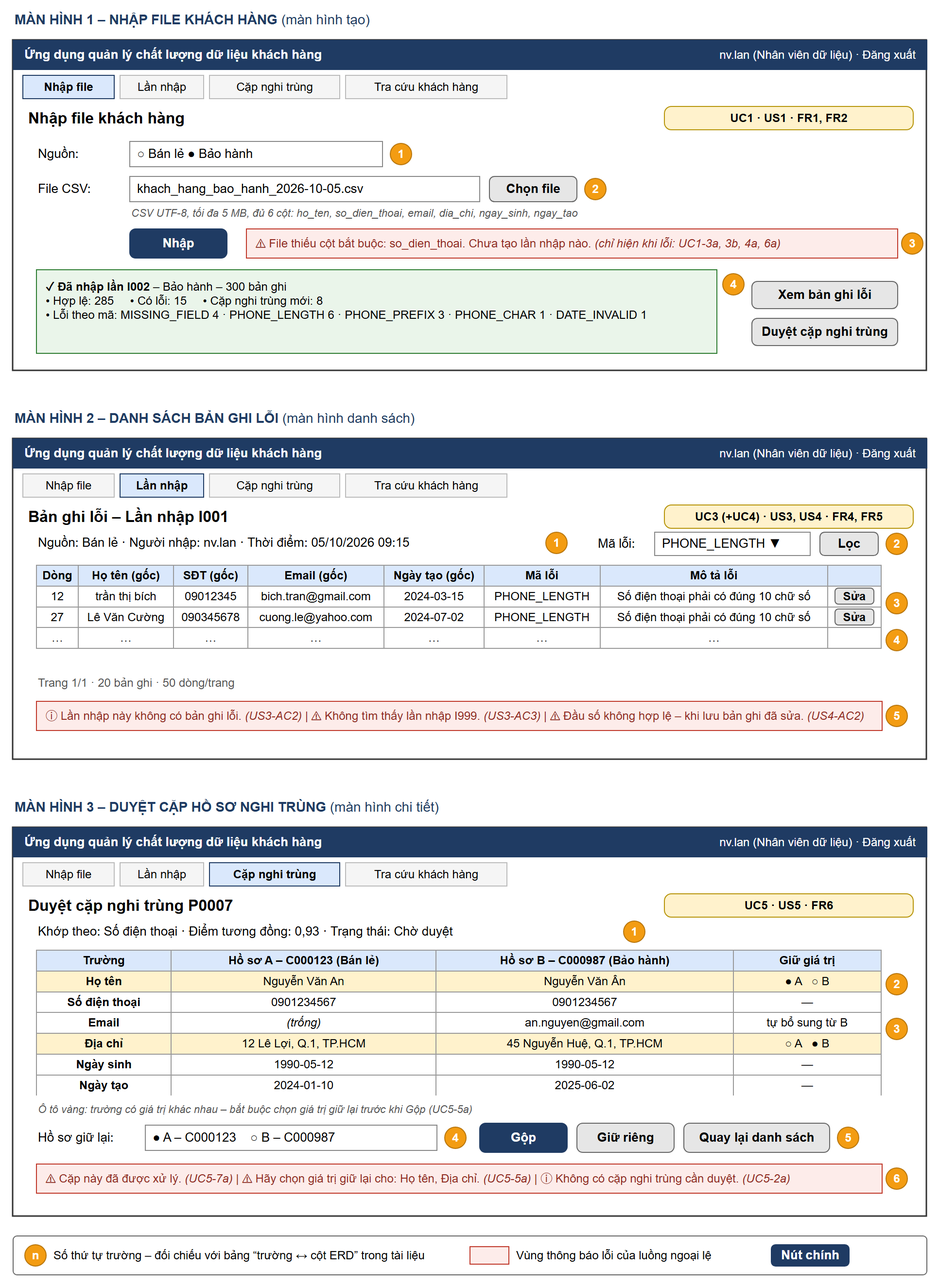
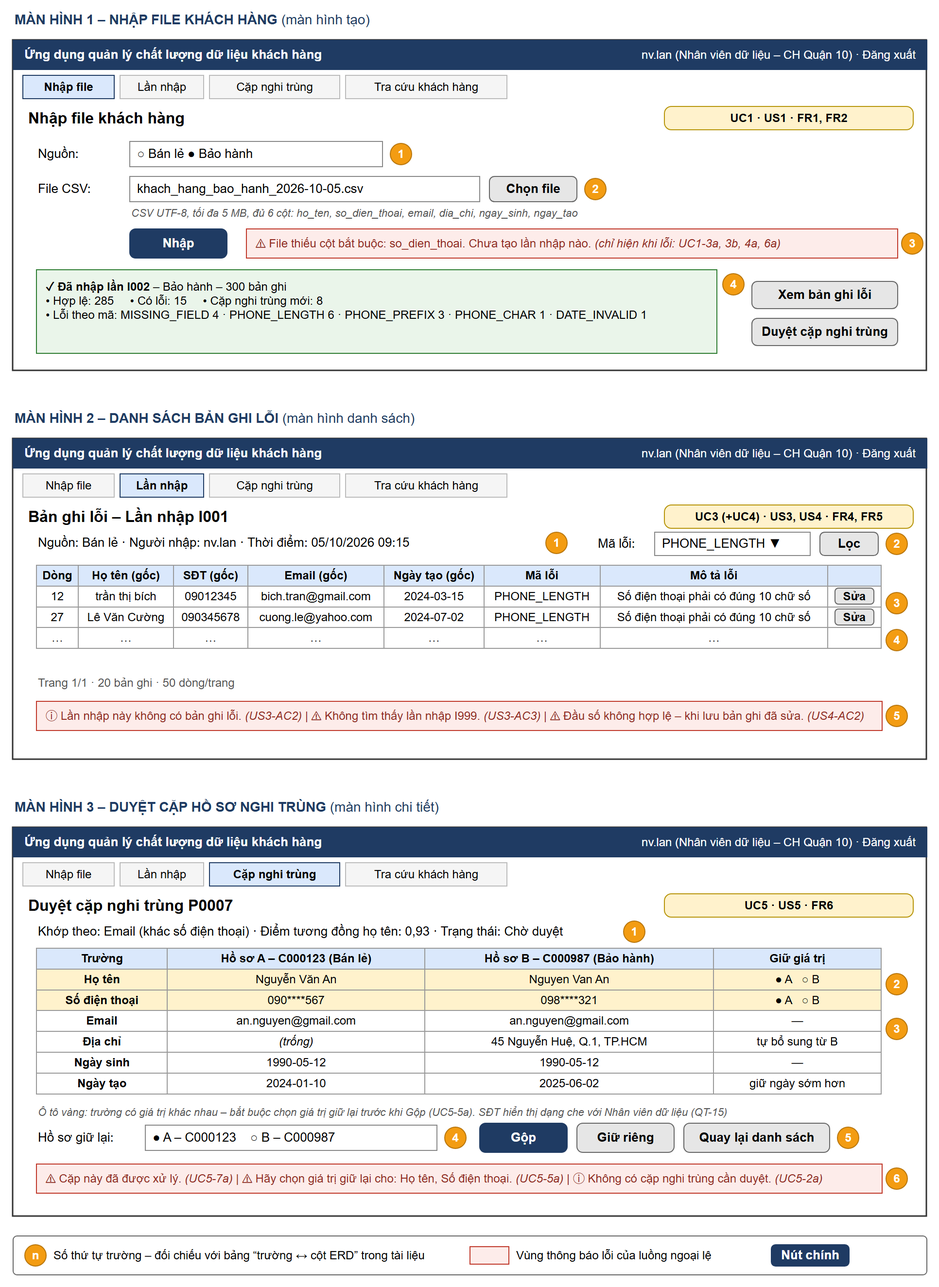
docs: doi chieu mo hinh du lieu voi case study, user story dang bang va cap nhat so do

diff --git a/docs/srs.md b/docs/srs.md
@@ -7,14 +7,14 @@
 **Thiết kế:** [`docs/architecture.drawio`](architecture.drawio) · [`docs/erd.drawio`](erd.drawio) · [`docs/schema.sql`](schema.sql) · [`docs/wireframe.drawio`](wireframe.drawio)  
 **Bản nộp BT1 (PDF):** `BT1_2374802010384_LeTanPhong.pdf` – nội dung trùng với tài liệu này
 
-> Cấu trúc rút gọn theo tinh thần ISO/IEC/IEEE 29148 (không tuân thủ đầy đủ chuẩn).
+> Cấu trúc rút gọn theo tinh thần ISO/IEC/IEEE 29148 (không tuân thủ đầy đủ chuẩn). Thuật ngữ, thực thể dữ liệu và quy tắc nghiệp vụ lấy từ tài liệu Case study Smart CRM – Mekong Mobile (Bảng 3.1, mục 7 – L7, mục 8, Bảng 9.1).
 
 ---
 
 ## 1. Giới thiệu và phạm vi
 
 ### 1.1. Bối cảnh
-Dữ liệu khách hàng của Mekong Mobile hiện nằm rải rác ở hệ thống bán lẻ và hệ thống bảo hành, một phần còn ghi chép thủ công trên Excel. Hồ sơ trùng lặp, thiếu trường bắt buộc và số điện thoại sai định dạng xuất hiện thường xuyên; nhân viên phải rà soát bằng tay trên Excel, doanh nghiệp chưa có “góc nhìn khách hàng duy nhất” (Single Customer View) và chưa đo được tỷ lệ lỗi dữ liệu.
+Dữ liệu khách hàng của Mekong Mobile nằm rải rác ở ba nơi: file Excel của từng cửa hàng, tin nhắn Zalo của nhân viên bán hàng và sổ tay của trung tâm bảo hành. Một khách hàng có thể tồn tại ba lần với ba số điện thoại khác nhau; ước tính 18–22% hồ sơ bị trùng (vấn đề V1). Số điện thoại có nhiều dạng (0901234567, 84901234567, 0901 234 567), có ô để trống; tên viết hoa/thường lẫn lộn (Bảng 5.2). Doanh nghiệp chưa có “góc nhìn khách hàng duy nhất” và chưa đo được mức độ sạch của dữ liệu.
 
 ### 1.2. Mục tiêu hệ thống
 Xây dựng **ứng dụng web và REST API** cho phép nhân viên dữ liệu nhập file khách hàng, được hệ thống tự chuẩn hóa và đánh dấu bản ghi lỗi, sửa lỗi và duyệt gộp hồ sơ nghi trùng; quản lý dữ liệu xem báo cáo tỷ lệ lỗi theo từng lần nhập.
@@ -30,32 +30,30 @@ Xây dựng **ứng dụng web và REST API** cho phép nhân viên dữ liệu 
 - Báo cáo tỷ lệ lỗi và kết quả gộp theo từng lần nhập.
 
 ### 1.4. Những gì CHỦ Ý KHÔNG làm (mức WON’T của MoSCoW)
-- Không kết nối trực tiếp (API, đồng bộ thời gian thực) tới hệ thống bán lẻ và bảo hành; chỉ nhận file CSV do các hệ thống đó xuất ra.
-- Không sửa hay ghi ngược dữ liệu về hệ thống nguồn.
+- Không kết nối trực tiếp (API, đồng bộ thời gian thực) tới hệ thống bán lẻ và bảo hành; chỉ nhận file CSV do các hệ thống đó xuất ra; không ghi ngược dữ liệu về nguồn.
 - Không tự động gộp hồ sơ khi chưa có nhân viên duyệt.
-- Không phát hiện trùng giữa hai hồ sơ không chung số điện thoại và không chung email (ví dụ khách đã đổi số).
-- Không xác minh số điện thoại/email với nhà mạng hoặc bằng tin nhắn.
-- Không có màn hình quản lý tài khoản; tài khoản người dùng được tạo sẵn bằng script khởi tạo dữ liệu.
+- Không phát hiện trùng khi hai hồ sơ khác số điện thoại, khác email và khác họ tên hoặc ngày sinh.
+- Không tính phân khúc khách hàng (thuộc luồng L1); không xác minh số điện thoại/email với nhà mạng; không có màn hình quản lý tài khoản.
 
 ### 1.5. Bảng thuật ngữ
 | Thuật ngữ | Tên trong ERD / API | Giải thích |
 | :--- | :--- | :--- |
-| Người dùng | `app_user` | Tài khoản đăng nhập; vai trò Nhân viên dữ liệu (`DATA_STAFF`) hoặc Quản lý dữ liệu (`DATA_MANAGER`). |
+| Khách hàng / Hồ sơ khách hàng | `customer` | Cá nhân đã mua ít nhất một sản phẩm hoặc dùng dịch vụ của Mekong Mobile (Bảng 3.1); mỗi khách hàng thật chỉ có một hồ sơ hiệu lực, xác định duy nhất bằng SĐT (QT-01). |
+| Người dùng | `app_user` | Tài khoản đăng nhập; vai trò Nhân viên dữ liệu (`DATA_STAFF`, thuộc một cửa hàng/trung tâm) hoặc Quản lý dữ liệu (`DATA_MANAGER`). |
 | Lần nhập | `import_batch` | Một lần tải một file CSV lên ứng dụng; có mã duy nhất (ví dụ I001), lưu nguồn, người nhập, thời điểm. |
-| Bản ghi nhập | `import_record` | Một dòng của file đã nhập; giữ giá trị gốc và giá trị sau chuẩn hóa/sau khi sửa. |
-| Mã lỗi | `record_error` | `MISSING_FIELD` – thiếu trường bắt buộc; `PHONE_LENGTH` – SĐT sau chuẩn hóa không đủ 10 chữ số; `PHONE_PREFIX` – đầu số không thuộc danh mục đầu số di động Việt Nam; `PHONE_CHAR` – SĐT chứa ký tự khác chữ số; `EMAIL_INVALID` – email sai định dạng; `DATE_INVALID` – ngày sai định dạng hoặc ở tương lai. |
-| Hồ sơ khách hàng | `customer` | Bản ghi hợp lệ đã vào danh sách khách hàng; mỗi khách hàng thật chỉ nên có một hồ sơ (Single Customer View). |
-| Cặp nghi trùng | `duplicate_pair` | Hai hồ sơ cùng SĐT đã chuẩn hóa hoặc cùng email; trạng thái Chờ duyệt (`PENDING`), Đã gộp (`MERGED`), Giữ riêng (`KEEP_SEPARATE`). |
-| Trường bắt buộc | — | Họ tên, số điện thoại (SĐT), ngày tạo. |
-| Chuẩn hóa | — | Họ tên: bỏ khoảng trắng thừa, viết hoa chữ cái đầu mỗi từ. SĐT: bỏ khoảng trắng, dấu chấm, gạch nối; đổi +84/84 thành 0. Email: chữ thường. |
-| Điểm tương đồng | `similarity` | Số từ 0 đến 1 đo mức giống nhau của họ tên hai hồ sơ; chỉ để sắp xếp và gợi ý, không dùng để tự gộp. |
-| Tỷ lệ lỗi | — (tính khi truy vấn) | Số bản ghi có ít nhất một mã lỗi / tổng số bản ghi của lần nhập × 100%. |
+| Bản ghi nhập (vùng tạm) | `stg_customer` | Một dòng của file đã nhập; giữ giá trị gốc và giá trị sau chuẩn hóa/sau khi sửa. |
+| Quy tắc kiểm tra | `dq_rule` (mã quy tắc) | `MISSING_FIELD` – thiếu trường bắt buộc; `PHONE_LENGTH` – SĐT không đủ 10 chữ số; `PHONE_PREFIX` – đầu số không thuộc danh mục; `PHONE_CHAR` – SĐT chứa ký tự khác chữ số; `EMAIL_INVALID` – email sai định dạng; `DATE_INVALID` – ngày sai định dạng hoặc ở tương lai. |
+| Kết quả kiểm tra (lỗi) | `dq_result` | Một lỗi của một bản ghi nhập theo một quy tắc kiểm tra; có thời điểm được khắc phục. |
+| Cặp nghi trùng | `duplicate_pair` | Hai hồ sơ KHÁC số điện thoại nhưng cùng email, hoặc cùng họ tên và ngày sinh; trạng thái Chờ duyệt (`PENDING`), Đã gộp (`MERGED`), Giữ riêng (`KEEP_SEPARATE`). |
+| Chuẩn hóa | — | Họ tên: bỏ khoảng trắng thừa, viết hoa chữ cái đầu mỗi từ. SĐT: quy về 10 chữ số bắt đầu bằng 0 (QT-02). Email: chữ thường. |
+| Điểm tương đồng | `similarity` | Số từ 0 đến 1 đo mức giống nhau của họ tên hai hồ sơ; chỉ để sắp xếp, không dùng để tự gộp. |
+| Tỷ lệ lỗi | — (tính khi truy vấn) | Số bản ghi có ít nhất một lỗi chưa khắc phục / tổng số bản ghi của lần nhập × 100%. |
 
 ## 2. Các bên liên quan và vai trò người dùng
 | Vai trò (Actor) | Mô tả | Được làm | Không được làm |
 | :--- | :--- | :--- | :--- |
-| Nhân viên dữ liệu | Nhân viên phụ trách dữ liệu khách hàng, người dùng chính của ứng dụng | Nhập file; xem danh sách lần nhập; xem và sửa bản ghi lỗi; duyệt cặp nghi trùng; tra cứu khách hàng. | Xem báo cáo tổng hợp; xóa lần nhập; tách hồ sơ đã gộp. |
-| Quản lý dữ liệu | Người chịu trách nhiệm chất lượng dữ liệu khách hàng | Xem báo cáo theo lần nhập; tra cứu khách hàng. | Nhập file; sửa bản ghi; duyệt cặp nghi trùng (tách bạch người làm và người kiểm soát). |
+| Nhân viên dữ liệu | Phụ trách dữ liệu khách hàng của một cửa hàng / trung tâm; người dùng chính | Nhập file; xem lần nhập, bản ghi lỗi, cặp nghi trùng của đơn vị mình (QT-14); sửa bản ghi lỗi; duyệt cặp nghi trùng; tra cứu khách hàng. | Xem báo cáo tổng hợp; xem SĐT đầy đủ trong hồ sơ khách hàng (QT-15); xóa lần nhập hay hồ sơ (QT-13). |
+| Quản lý dữ liệu | Chịu trách nhiệm chất lượng dữ liệu khách hàng toàn công ty | Xem báo cáo theo lần nhập của mọi đơn vị; tra cứu khách hàng với SĐT đầy đủ. | Nhập file; sửa bản ghi; duyệt cặp nghi trùng (tách bạch người làm và người kiểm soát). |
 
 ## 3. Yêu cầu chức năng và User Story
 
@@ -63,48 +61,26 @@ Xây dựng **ứng dụng web và REST API** cho phép nhân viên dữ liệu 
 | Mã | Yêu cầu chức năng (phát biểu kiểm chứng được) |
 | :---: | :--- |
 | FR1 | Hệ thống cho phép nhân viên dữ liệu tải lên một file CSV khách hàng (tối đa 5 MB) kèm nguồn (bán lẻ / bảo hành), kiểm tra file có đủ các cột bắt buộc, tạo một lần nhập có mã duy nhất và lưu toàn bộ bản ghi của file. |
-| FR2 | Với mỗi bản ghi được nhập hoặc được sửa, hệ thống chuẩn hóa họ tên, SĐT, email, gắn mã lỗi cho bản ghi vi phạm, đưa bản ghi không lỗi vào danh sách khách hàng và tạo cặp nghi trùng khi bản ghi trùng SĐT chuẩn hoặc email với một hồ sơ đã có. |
-| FR3 | Hệ thống hiển thị danh sách các lần nhập, mới nhất trước; mỗi dòng có mã lần nhập, nguồn, người nhập, thời điểm, tổng bản ghi và số bản ghi lỗi. |
-| FR4 | Hệ thống hiển thị danh sách bản ghi lỗi của một lần nhập, lọc được theo mã lỗi, phân trang 50 dòng mỗi trang; mỗi dòng có giá trị gốc và mô tả lỗi. |
-| FR5 | Hệ thống cho phép sửa họ tên, SĐT, email, địa chỉ, ngày sinh, ngày tạo của một bản ghi lỗi; khi lưu, bản ghi được kiểm tra lại theo FR2, chỉ được lưu khi không còn lỗi và các mã lỗi cũ được đánh dấu đã khắc phục. |
-| FR6 | Hệ thống hiển thị từng cặp nghi trùng cạnh nhau kèm điểm tương đồng; nhân viên chọn Gộp (chọn hồ sơ giữ lại) hoặc Giữ riêng; hệ thống lưu người quyết định và thời điểm. |
-| FR7 | Hệ thống tìm khách hàng theo SĐT (chuẩn hóa SĐT nhập vào trước khi tìm) và trả về hồ sơ kèm danh sách bản ghi nguồn. |
-| FR8 | Hệ thống hiển thị báo cáo theo từng lần nhập: tổng bản ghi, số và tỷ lệ bản ghi lỗi theo mã lỗi, số cặp nghi trùng đã gộp / giữ riêng / chờ duyệt; chỉ vai trò Quản lý dữ liệu xem được. |
+| FR2 | Với mỗi bản ghi được nhập hoặc được sửa, hệ thống chuẩn hóa họ tên, SĐT, email và kiểm tra theo BR1, BR3; bản ghi hợp lệ có SĐT đã tồn tại được gắn vào hồ sơ có sẵn (QT-01), ngược lại tạo hồ sơ mới; tạo cặp nghi trùng khi hồ sơ mới khác SĐT nhưng cùng email, hoặc cùng họ tên và ngày sinh với một hồ sơ đã có. |
+| FR3 | Hệ thống hiển thị danh sách các lần nhập của đơn vị người dùng (BR6), mới nhất trước; mỗi dòng có mã lần nhập, nguồn, người nhập, thời điểm, tổng bản ghi và số bản ghi lỗi. |
+| FR4 | Hệ thống hiển thị danh sách bản ghi lỗi của một lần nhập, lọc được theo mã quy tắc, phân trang 50 dòng mỗi trang; mỗi dòng có giá trị gốc và mô tả lỗi. |
+| FR5 | Hệ thống cho phép sửa họ tên, SĐT, email, địa chỉ, ngày sinh, ngày tạo của một bản ghi lỗi; khi lưu, bản ghi được kiểm tra lại theo FR2, chỉ được lưu khi không còn lỗi và các lỗi cũ được đánh dấu đã khắc phục. |
+| FR6 | Hệ thống hiển thị từng cặp nghi trùng cạnh nhau kèm điểm tương đồng; nhân viên chọn Gộp (chọn hồ sơ giữ lại) hoặc Giữ riêng; khi gộp, hồ sơ còn lại được đánh dấu “đã gộp vào” hồ sơ giữ lại (BR5); hệ thống lưu người quyết định và thời điểm. |
+| FR7 | Hệ thống tìm khách hàng theo SĐT (chuẩn hóa SĐT nhập vào trước khi tìm) và trả về hồ sơ kèm danh sách bản ghi nguồn; SĐT của một hồ sơ đã gộp trả về hồ sơ giữ lại; SĐT hiển thị theo BR7. |
+| FR8 | Hệ thống hiển thị báo cáo theo từng lần nhập: tổng bản ghi, số và tỷ lệ bản ghi lỗi theo mã quy tắc, số cặp nghi trùng đã gộp / giữ riêng / chờ duyệt; chỉ vai trò Quản lý dữ liệu xem được. |
 
-### 3.2. User Story (kèm mức MoSCoW và tiêu chí chấp nhận Given–When–Then)
+### 3.2. User Story và tiêu chí chấp nhận
+| Mã | MoSCoW | User Story | Tiêu chí chấp nhận (Given – When – Then) |
+| :---: | :---: | :--- | :--- |
+| US1 | MUST | Là nhân viên dữ liệu, tôi muốn nhập file CSV khách hàng xuất từ hệ thống bán lẻ hoặc bảo hành vào ứng dụng để toàn bộ hồ sơ được tự động kiểm tra và chuẩn hóa thay vì rà soát thủ công trên Excel. | AC1. GIVEN file CSV hợp lệ 1.000 dòng, nguồn “Bán lẻ”; WHEN tải lên; THEN tạo một lần nhập mới, lưu đủ 1.000 bản ghi và hiển thị số bản ghi hợp lệ, số bản ghi lỗi, số cặp nghi trùng.<br>AC2 (ngoại lệ). GIVEN file thiếu cột số điện thoại; WHEN tải lên; THEN từ chối, nêu rõ cột còn thiếu, không tạo lần nhập.<br>AC3. GIVEN dòng có họ tên “  NGUYỄN   văn  AN ” và SĐT “+84 901 234 567”; WHEN nhập; THEN lưu “Nguyễn Văn An” và “0901234567”, không có lỗi.<br>AC4 (QT-01). GIVEN đã có hồ sơ SĐT 0901234567; WHEN nhập dòng có SĐT “84901234567”; THEN không tạo hồ sơ mới mà gắn bản ghi vào hồ sơ có sẵn. |
+| US2 | SHOULD | Là nhân viên dữ liệu, tôi muốn xem danh sách các lần nhập đã thực hiện để biết file nào đã được xử lý và chọn lần nhập cần xem lỗi. | AC1. GIVEN đã có I001, I002, I003; WHEN mở danh sách; THEN I003 hiện đầu tiên, mỗi dòng có nguồn, người nhập, thời điểm, tổng bản ghi, số bản ghi lỗi.<br>AC2. GIVEN chưa có lần nhập nào; WHEN mở danh sách; THEN hiển thị “Chưa có lần nhập nào”.<br>AC3 (QT-14). GIVEN nhân viên thuộc cửa hàng Quận 10; WHEN mở danh sách; THEN chỉ thấy lần nhập do nhân viên cửa hàng Quận 10 thực hiện. |
+| US3 | MUST | Là nhân viên dữ liệu, tôi muốn xem danh sách bản ghi lỗi của một lần nhập và lọc theo loại lỗi để biết cần xử lý bản ghi nào. | AC1. GIVEN I001 có 45 bản ghi lỗi, 20 bản ghi PHONE_LENGTH; WHEN lọc PHONE_LENGTH; THEN hiện đúng 20 bản ghi kèm giá trị gốc và mô tả lỗi.<br>AC2. GIVEN lần nhập không có bản ghi lỗi; WHEN mở danh sách; THEN hiển thị “Lần nhập này không có bản ghi lỗi”.<br>AC3 (ngoại lệ). GIVEN không có lần nhập I999; WHEN mở bản ghi lỗi của I999; THEN báo “Không tìm thấy lần nhập I999”. |
+| US4 | SHOULD | Là nhân viên dữ liệu, tôi muốn sửa trực tiếp một bản ghi lỗi trên ứng dụng để bản ghi được kiểm tra lại ngay mà không phải sửa file rồi nhập lại. | AC1. GIVEN bản ghi có SĐT “09012345” (PHONE_LENGTH); WHEN sửa thành “0901234567” và bấm Lưu; THEN lỗi được đánh dấu đã khắc phục và bản ghi vào danh sách khách hàng.<br>AC2 (ngoại lệ). GIVEN sửa SĐT thành “0111234567” (đầu số 011 không thuộc danh mục); WHEN bấm Lưu; THEN từ chối, báo “Đầu số không hợp lệ”, giữ nguyên dữ liệu đang nhập. |
+| US5 | MUST | Là nhân viên dữ liệu, tôi muốn duyệt từng cặp hồ sơ nghi trùng và chọn gộp hoặc giữ riêng để mỗi khách hàng thật chỉ còn một hồ sơ. | AC1. GIVEN hồ sơ A (SĐT 0901234567, chưa có địa chỉ) và B (SĐT 0987654321) cùng email an.nguyen@gmail.com; WHEN chọn Gộp, giữ A; THEN B được đánh dấu “đã gộp vào” A, địa chỉ của A lấy từ B, cặp chuyển “Đã gộp”.<br>AC2. GIVEN cặp cùng họ tên và ngày sinh nhưng là hai người khác nhau; WHEN chọn Giữ riêng; THEN giữ cả hai hồ sơ, cặp chuyển “Giữ riêng”, không hiện lại trong danh sách chờ duyệt.<br>AC3 (ngoại lệ). GIVEN cặp đã được nhân viên khác xử lý; WHEN gửi quyết định; THEN từ chối, báo “Cặp này đã được xử lý”. |
+| US6 | SHOULD | Là nhân viên dữ liệu, tôi muốn tra cứu khách hàng theo số điện thoại để xem hồ sơ đã hợp nhất kèm nguồn gốc khi bộ phận khác cần đối chiếu. | AC1. GIVEN có hồ sơ SĐT 0901234567; WHEN nhân viên tra cứu “090 123 4567”; THEN hiển thị hồ sơ với SĐT dạng 090\*\*\*\*567 (QT-15) và danh sách bản ghi nguồn.<br>AC2. GIVEN hồ sơ B (0987654321) đã gộp vào A; WHEN tra cứu 0987654321; THEN hiển thị hồ sơ A.<br>AC3 (ngoại lệ). GIVEN không có hồ sơ nào với SĐT đã nhập; WHEN tra cứu; THEN hiển thị “Không tìm thấy khách hàng”. |
+| US7 | SHOULD | Là quản lý dữ liệu, tôi muốn xem báo cáo tỷ lệ bản ghi lỗi và số hồ sơ đã gộp của từng lần nhập để theo dõi chất lượng dữ liệu khách hàng theo thời gian. | AC1. GIVEN I001 có 300 bản ghi, 15 bản ghi có lỗi; WHEN mở báo cáo; THEN tỷ lệ lỗi của I001 hiển thị 5%.<br>AC2 (ngoại lệ). GIVEN người dùng có vai trò Nhân viên dữ liệu; WHEN mở báo cáo; THEN hệ thống từ chối truy cập. |
 
-**US1 [MUST]** Là nhân viên dữ liệu, tôi muốn nhập file CSV khách hàng xuất từ hệ thống bán lẻ hoặc bảo hành vào ứng dụng để toàn bộ hồ sơ được tự động kiểm tra và chuẩn hóa thay vì rà soát thủ công trên Excel.
-- AC1. GIVEN file CSV hợp lệ có 1.000 dòng, nguồn “Bán lẻ”; WHEN nhân viên tải lên; THEN hệ thống tạo một lần nhập mới, lưu đủ 1.000 bản ghi và hiển thị số bản ghi hợp lệ, số bản ghi lỗi, số cặp nghi trùng.
-- AC2 (ngoại lệ). GIVEN file thiếu cột số điện thoại; WHEN tải lên; THEN hệ thống từ chối, thông báo nêu rõ cột còn thiếu và không tạo lần nhập.
-- AC3. GIVEN dòng có họ tên “  NGUYỄN   văn  AN ” và SĐT “+84 901 234 567”; WHEN nhập; THEN bản ghi được lưu với “Nguyễn Văn An” và “0901234567”, không bị gắn mã lỗi.
-
-**US2 [SHOULD]** Là nhân viên dữ liệu, tôi muốn xem danh sách các lần nhập đã thực hiện để biết file nào đã được xử lý và chọn lần nhập cần xem lỗi.
-- AC1. GIVEN đã có 3 lần nhập I001, I002, I003; WHEN mở danh sách lần nhập; THEN I003 hiển thị đầu tiên, mỗi dòng có nguồn, người nhập, thời điểm, tổng bản ghi, số bản ghi lỗi.
-- AC2. GIVEN chưa có lần nhập nào; WHEN mở danh sách; THEN hiển thị “Chưa có lần nhập nào”.
-
-**US3 [MUST]** Là nhân viên dữ liệu, tôi muốn xem danh sách bản ghi lỗi của một lần nhập và lọc theo loại lỗi để biết cần xử lý bản ghi nào.
-- AC1. GIVEN lần nhập I001 có 45 bản ghi lỗi, trong đó 20 bản ghi PHONE_LENGTH; WHEN lọc theo PHONE_LENGTH; THEN danh sách hiện đúng 20 bản ghi, mỗi dòng có giá trị gốc và mô tả lỗi.
-- AC2. GIVEN lần nhập không có bản ghi lỗi; WHEN mở danh sách; THEN hiển thị “Lần nhập này không có bản ghi lỗi”.
-- AC3 (ngoại lệ). GIVEN không có lần nhập mã I999; WHEN mở danh sách bản ghi lỗi của I999; THEN hệ thống báo “Không tìm thấy lần nhập I999”.
-
-**US4 [SHOULD]** Là nhân viên dữ liệu, tôi muốn sửa trực tiếp một bản ghi lỗi trên ứng dụng để bản ghi được kiểm tra lại ngay mà không phải sửa file rồi nhập lại.
-- AC1. GIVEN bản ghi có SĐT “09012345” (mã PHONE_LENGTH); WHEN nhân viên sửa thành “0901234567” và bấm Lưu; THEN mã lỗi được đánh dấu đã khắc phục và bản ghi được đưa vào danh sách khách hàng.
-- AC2 (ngoại lệ). GIVEN nhân viên sửa SĐT thành “0111234567” (đầu số 011 không thuộc danh mục); WHEN bấm Lưu; THEN hệ thống từ chối, báo “Đầu số không hợp lệ” và giữ nguyên dữ liệu đang nhập trên form.
-
-**US5 [MUST]** Là nhân viên dữ liệu, tôi muốn duyệt từng cặp hồ sơ nghi trùng và chọn gộp hoặc giữ riêng để mỗi khách hàng thật chỉ còn một hồ sơ.
-- AC1. GIVEN cặp A, B cùng SĐT “0901234567”, A thiếu email còn B có email; WHEN nhân viên chọn Gộp và giữ A; THEN chỉ còn hồ sơ A, email của A được lấy từ B, cặp chuyển sang “Đã gộp”.
-- AC2. GIVEN cặp A, B cùng SĐT nhưng là hai người khác nhau (người thân dùng chung số); WHEN chọn Giữ riêng; THEN cả hai hồ sơ được giữ, cặp chuyển sang “Giữ riêng” và không hiện lại trong danh sách chờ duyệt.
-- AC3 (ngoại lệ). GIVEN cặp đã được một nhân viên khác xử lý; WHEN nhân viên gửi quyết định; THEN hệ thống từ chối và báo “Cặp này đã được xử lý”.
-
-**US6 [SHOULD]** Là nhân viên dữ liệu, tôi muốn tra cứu khách hàng theo số điện thoại để xem hồ sơ đã hợp nhất kèm nguồn gốc khi bộ phận khác cần đối chiếu.
-- AC1. GIVEN có khách hàng với SĐT 0901234567; WHEN tra cứu “090 123 4567”; THEN hiển thị hồ sơ khách hàng và danh sách bản ghi nguồn (bán lẻ / bảo hành).
-- AC2 (ngoại lệ). GIVEN không có khách hàng nào với SĐT đã nhập; WHEN tra cứu; THEN hiển thị “Không tìm thấy khách hàng”.
-
-**US7 [SHOULD]** Là quản lý dữ liệu, tôi muốn xem báo cáo tỷ lệ bản ghi lỗi và số hồ sơ đã gộp của từng lần nhập để theo dõi chất lượng dữ liệu khách hàng theo thời gian.
-- AC1. GIVEN lần nhập I001 có 300 bản ghi, trong đó 15 bản ghi có lỗi; WHEN mở báo cáo; THEN tỷ lệ lỗi của I001 hiển thị 5%.
-- AC2 (ngoại lệ). GIVEN người dùng đăng nhập với vai trò Nhân viên dữ liệu; WHEN mở báo cáo; THEN hệ thống từ chối truy cập.
-
-> **Ghi chú MoSCoW.** 7 story: 3 MUST (US1, US3, US5) tạo thành luồng tối thiểu nhập file → thấy lỗi → gộp hồ sơ trùng; 4 SHOULD (US2, US4, US6, US7) vì có cách làm tạm: xem kết quả ngay sau khi nhập (US2), sửa file nguồn rồi nhập lại (US4), tìm trong danh sách khách hàng (US6), đếm từ danh sách bản ghi lỗi (US7). **COULD – hướng mở rộng, không hiện thực:** Quản lý dữ liệu tách một hồ sơ bị gộp nhầm. Các mục WON’T ở mục 1.4.
+> **Ghi chú MoSCoW.** 3 MUST (US1, US3, US5) tạo luồng tối thiểu nhập file → thấy lỗi → gộp hồ sơ trùng; 4 SHOULD (US2, US4, US6, US7) có cách làm tạm. **COULD – hướng mở rộng, không hiện thực:** Quản lý dữ liệu tách một hồ sơ bị gộp nhầm. Mỗi story có tiêu chí chấp nhận; mỗi story MUST có ít nhất một tiêu chí ngoại lệ. Các mục WON’T ở mục 1.4.
 
 ### 3.3. Tự kiểm INVEST
 | Story | I | N | V | E | S | T | Ghi chú |
@@ -129,13 +105,18 @@ Xây dựng **ứng dụng web và REST API** cho phép nhân viên dữ liệu 
 | NFR5 | Bảo trì | Thêm một đầu số di động mới chỉ cần sửa file cấu hình danh mục đầu số, không sửa mã nguồn. |
 
 ## 5. Ràng buộc và quy tắc nghiệp vụ
-- **BR1:** Trường bắt buộc gồm họ tên, SĐT, ngày tạo; bản ghi thiếu trường nào bị gắn `MISSING_FIELD`.
-- **BR2:** SĐT hợp lệ khi sau chuẩn hóa gồm đúng 10 chữ số, bắt đầu bằng 0 và có đầu số thuộc danh mục đầu số di động Việt Nam hiện hành (lưu trong file cấu hình).
-- **BR3:** Bản ghi còn mã lỗi chưa khắc phục không được đưa vào danh sách khách hàng.
-- **BR4:** Hồ sơ chỉ được gộp khi có nhân viên duyệt; hệ thống không tự gộp.
-- **BR5:** Mỗi cặp nghi trùng chỉ được quyết định một lần; quyết định sau bị từ chối.
-- **BR6:** Không xóa lần nhập và giá trị gốc của bản ghi; hồ sơ đã gộp không tự tách ngược.
-- **BR7:** File nhập là CSV mã hóa UTF-8, tối đa 5 MB, có các cột: `ho_ten`, `so_dien_thoai`, `email`, `dia_chi`, `ngay_sinh`, `ngay_tao`.
+Các quy tắc QT lấy từ Bảng 9.1 của case study (QT-01, QT-02 của luồng L7 và QT-13, QT-14, QT-15 áp dụng cho mọi luồng); BR là mã dùng trong tài liệu này.
+
+| Mã | Nguồn | Quy tắc |
+| :---: | :---: | :--- |
+| BR1 | QT-02 | SĐT được chuẩn hóa về 10 chữ số bắt đầu bằng 0 trước khi lưu; các dạng +84…, 84…, có dấu cách hoặc dấu chấm đều quy về dạng chuẩn. Đầu số phải thuộc danh mục đầu số di động Việt Nam (file cấu hình). |
+| BR2 | QT-01 | SĐT khách hàng là duy nhất. Khi nhập một SĐT đã tồn tại, hệ thống gắn bản ghi vào hồ sơ có sẵn thay vì tạo hồ sơ mới. |
+| BR3 | Phân tích | Trường bắt buộc: họ tên, SĐT, ngày tạo; thiếu trường nào bị gắn `MISSING_FIELD`. Bản ghi còn lỗi chưa khắc phục không được đưa vào danh sách khách hàng. |
+| BR4 | Phân tích | Cặp nghi trùng chỉ được gộp khi có nhân viên duyệt; mỗi cặp chỉ được quyết định một lần, quyết định sau bị từ chối. |
+| BR5 | QT-13 | Không xóa vật lý lần nhập, bản ghi nhập hay hồ sơ khách hàng; hồ sơ bị gộp chỉ được đánh dấu “đã gộp vào” hồ sơ giữ lại và giữ nguyên lịch sử. |
+| BR6 | QT-14 | Nhân viên dữ liệu chỉ xem lần nhập, bản ghi và cặp nghi trùng của cửa hàng/trung tâm mình; Quản lý dữ liệu xem toàn công ty. |
+| BR7 | QT-15 | SĐT trong hồ sơ khách hàng hiển thị dạng che (090\*\*\*\*567) với Nhân viên dữ liệu; Quản lý dữ liệu xem đầy đủ. |
+| BR8 | Phân tích | File nhập là CSV UTF-8, tối đa 5 MB, có các cột: `ho_ten`, `so_dien_thoai`, `email`, `dia_chi`, `ngay_sinh`, `ngay_tao`. |
 
 ## 6. Bảng truy vết yêu cầu
 | Mã FR | Yêu cầu chức năng | User Story | Use Case | MoSCoW | Test case (BT3) |
@@ -143,7 +124,7 @@ Xây dựng **ứng dụng web và REST API** cho phép nhân viên dữ liệu 
 | FR1 | Nhập file CSV khách hàng | US1 | UC1 | MUST | Bổ sung ở BT3 |
 | FR2 | Kiểm tra và chuẩn hóa bản ghi, tạo cặp nghi trùng | US1, US4 | UC1, UC4 | MUST | Bổ sung ở BT3 |
 | FR3 | Danh sách các lần nhập | US2 | UC2 | SHOULD | Bổ sung ở BT3 |
-| FR4 | Danh sách bản ghi lỗi có lọc theo mã lỗi | US3 | UC3 | MUST | Bổ sung ở BT3 |
+| FR4 | Danh sách bản ghi lỗi có lọc theo mã quy tắc | US3 | UC3 | MUST | Bổ sung ở BT3 |
 | FR5 | Sửa bản ghi lỗi | US4 | UC4 | SHOULD | Bổ sung ở BT3 |
 | FR6 | Duyệt cặp hồ sơ nghi trùng | US5 | UC5 | MUST | Bổ sung ở BT3 |
 | FR7 | Tra cứu khách hàng theo SĐT | US6 | UC6 | SHOULD | Bổ sung ở BT3 |
@@ -183,7 +164,7 @@ Sơ đồ: [`docs/usecase.drawio`](usecase.drawio) – trang 1 “UseCase_L7” 
 - **Actor chính:** Nhân viên dữ liệu
 - **Mục tiêu:** Đưa toàn bộ hồ sơ trong file vào ứng dụng, mỗi bản ghi đều được kiểm tra và chuẩn hóa.
 - **Điều kiện trước:** Nhân viên đã đăng nhập; có file CSV xuất từ hệ thống bán lẻ hoặc bảo hành.
-- **Điều kiện sau:** Một lần nhập mới có mã duy nhất được lưu cùng toàn bộ bản ghi; mỗi bản ghi ở một trong ba trạng thái: hợp lệ (đã vào danh sách khách hàng), có mã lỗi, hoặc thuộc một cặp nghi trùng chờ duyệt.
+- **Điều kiện sau:** Một lần nhập mới có mã duy nhất được lưu cùng toàn bộ bản ghi; mỗi bản ghi hợp lệ (gắn với một hồ sơ khách hàng), có lỗi, hoặc làm phát sinh một cặp nghi trùng chờ duyệt.
 - **Liên quan:** FR1, FR2, US1 | **Mức ưu tiên:** MUST
 
 **Luồng chính (happy path):**
@@ -191,7 +172,7 @@ Sơ đồ: [`docs/usecase.drawio`](usecase.drawio) – trang 1 “UseCase_L7” 
 2. Nhân viên chọn nguồn (Bán lẻ / Bảo hành), chọn file CSV và bấm “Nhập”.
 3. Hệ thống kiểm tra định dạng, dung lượng và các cột bắt buộc của file.
 4. Hệ thống tạo lần nhập mới và đọc từng dòng thành bản ghi nhập.
-5. Với từng bản ghi, hệ thống chuẩn hóa và kiểm tra theo BR1, BR2; gắn mã lỗi cho bản ghi vi phạm, đưa bản ghi không lỗi vào danh sách khách hàng và tạo cặp nghi trùng nếu trùng SĐT hoặc email với hồ sơ đã có.
+5. Với từng bản ghi, hệ thống chuẩn hóa và kiểm tra theo BR1, BR3; gắn lỗi cho bản ghi vi phạm; bản ghi hợp lệ có SĐT đã tồn tại được gắn vào hồ sơ có sẵn (BR2), ngược lại tạo hồ sơ mới; tạo cặp nghi trùng nếu hồ sơ mới khác SĐT nhưng cùng email, hoặc cùng họ tên và ngày sinh với hồ sơ đã có.
 6. Hệ thống lưu lần nhập và toàn bộ bản ghi trong một giao dịch.
 7. Hệ thống hiển thị tóm tắt: tổng bản ghi, số bản ghi hợp lệ, số bản ghi lỗi theo mã lỗi, số cặp nghi trùng mới.
 
@@ -220,4 +201,4 @@ Sơ đồ: [`docs/usecase.drawio`](usecase.drawio) – trang 1 “UseCase_L7” 
 **Luồng ngoại lệ:**
 - **2a.** Không có cặp nào chờ duyệt → Hệ thống hiển thị “Không có cặp nghi trùng cần duyệt”.
 - **5a.** Hai hồ sơ có giá trị khác nhau ở cùng một trường (ví dụ hai địa chỉ) và nhân viên chọn Gộp → Hệ thống yêu cầu chọn giá trị giữ lại cho từng trường khác nhau trước khi cho xác nhận.
-- **7a.** Cặp đã được nhân viên khác xử lý trong lúc đang xem → Hệ thống từ chối quyết định, báo “Cặp này đã được xử lý” và tải lại danh sách (BR5).
+- **7a.** Cặp đã được nhân viên khác xử lý trong lúc đang xem → Hệ thống từ chối quyết định, báo “Cặp này đã được xử lý” và tải lại danh sách (BR4).

diff --git a/docs/api-contract.md b/docs/api-contract.md
@@ -53,6 +53,10 @@ Mọi phản hồi lỗi có cùng cấu trúc:
 
 Vai trò người dùng: `DATA_STAFF` (Nhân viên dữ liệu), `DATA_MANAGER` (Quản lý dữ liệu).
 
+Quy tắc áp dụng cho mọi endpoint (Bảng 9.1 của case study):
+- **QT-14 (BR6):** với `DATA_STAFF`, các danh sách lần nhập, bản ghi và cặp nghi trùng chỉ trả về dữ liệu của cửa hàng/trung tâm của người gọi; truy cập dữ liệu đơn vị khác trả `404`.
+- **QT-15 (BR7):** SĐT trong hồ sơ khách hàng trả về dạng che (`090****567`) với `DATA_STAFF`, đầy đủ với `DATA_MANAGER`.
+
 ## 3. Đặc tả chi tiết endpoint
 
 ### E1. `POST /api/auth/login` – Đăng nhập
@@ -175,13 +179,13 @@ Authorization: Bearer <token>
   "items": [
     {
       "pairId": "P0007",
-      "matchedBy": "PHONE",
+      "matchedBy": "EMAIL",
       "similarity": 0.93,
       "status": "PENDING",
       "customerA": { "customerId": "C000123", "fullName": "Nguyễn Văn An",
-                     "phone": "0901234567", "source": "RETAIL" },
-      "customerB": { "customerId": "C000987", "fullName": "Nguyễn Văn Ân",
-                     "phone": "0901234567", "source": "WARRANTY" }
+                     "phone": "090****567", "source": "RETAIL" },
+      "customerB": { "customerId": "C000987", "fullName": "Nguyen Van An",
+                     "phone": "098****321", "source": "WARRANTY" }
     }
   ]
 }
@@ -206,18 +210,18 @@ Authorization: Bearer <token>
 ```json
 {
   "pairId": "P0007",
-  "matchedBy": "PHONE",
+  "matchedBy": "EMAIL",
   "similarity": 0.93,
   "status": "PENDING",
   "customerA": { "customerId": "C000123", "fullName": "Nguyễn Văn An",
-                 "phone": "0901234567", "email": null,
-                 "address": "12 Lê Lợi, Q.1, TP.HCM", "birthDate": "1990-05-12",
+                 "phone": "090****567", "email": "an.nguyen@gmail.com",
+                 "address": null, "birthDate": "1990-05-12",
                  "source": "RETAIL" },
-  "customerB": { "customerId": "C000987", "fullName": "Nguyễn Văn Ân",
-                 "phone": "0901234567", "email": "an.nguyen@gmail.com",
+  "customerB": { "customerId": "C000987", "fullName": "Nguyen Van An",
+                 "phone": "098****321", "email": "an.nguyen@gmail.com",
                  "address": "45 Nguyễn Huệ, Q.1, TP.HCM", "birthDate": "1990-05-12",
                  "source": "WARRANTY" },
-  "differentFields": ["fullName", "address"]
+  "differentFields": ["fullName", "phone"]
 }
 ```
 
@@ -228,7 +232,7 @@ Authorization: Bearer <token>
 | 404 | Không có cặp với `pairId` | `PAIR_NOT_FOUND` |
 
 ### E6. `POST /api/duplicate-pairs/{pairId}/decision` – Gộp hoặc giữ riêng
-Truy vết: US5 – UC5 (bước 5–7) – FR6, BR4, BR5. Với Gộp, `fieldChoices` chỉ định hồ sơ lấy giá trị cho từng trường khác nhau (UC5-5a); trường còn trống của hồ sơ giữ lại được bổ sung tự động (US5-AC1). Với Giữ riêng gửi `{ "action": "KEEP_SEPARATE" }`.
+Truy vết: US5 – UC5 (bước 5–7) – FR6, BR4, BR5. Với Gộp, `fieldChoices` chỉ định hồ sơ lấy giá trị cho từng trường khác nhau (UC5-5a); trường còn trống của hồ sơ giữ lại được bổ sung tự động (US5-AC1); hồ sơ còn lại không bị xóa mà được ghi `merged_into_id` trỏ tới hồ sơ giữ lại (QT-13). SĐT của hồ sơ giữ lại phải được chọn trong `fieldChoices` vì hai hồ sơ luôn khác SĐT (QT-01). Với Giữ riêng gửi `{ "action": "KEEP_SEPARATE" }`.
 
 **Request mẫu:**
 ```http
@@ -239,7 +243,7 @@ Content-Type: application/json
 {
   "action": "MERGE",
   "keepCustomerId": "C000123",
-  "fieldChoices": { "fullName": "C000123", "address": "C000987" }
+  "fieldChoices": { "fullName": "C000123", "phone": "C000123" }
 }
 ```
 
@@ -250,7 +254,7 @@ Content-Type: application/json
   "status": "MERGED",
   "survivingCustomerId": "C000123",
   "mergedCustomerId": "C000987",
-  "result": { "fullName": "Nguyễn Văn An", "phone": "0901234567",
+  "result": { "fullName": "Nguyễn Văn An", "phone": "090****567",
               "email": "an.nguyen@gmail.com", "address": "45 Nguyễn Huệ, Q.1, TP.HCM" },
   "decidedBy": "nv.lan",
   "decidedAt": "2026-10-05T10:02:41+07:00"

diff --git a/docs/ai-disclosure.md b/docs/ai-disclosure.md
@@ -21,8 +21,8 @@
 | :--- | :--- | :--- | :--- |
 | **Gemini** | Phân tích bài toán chất lượng dữ liệu khách hàng của case study Mekong Mobile; gợi ý chọn luồng L7; bản nháp đầu phiếu phạm vi (theo Track DA, đã được thay thế) | Phiếu phạm vi (Buổi 2) | Đối chiếu với mô tả luồng L7 trong case study; không dùng nội dung bản nháp DA trong bài nộp |
 | **Muse (Meta AI)** | Gợi ý cấu trúc SRS 6 mục, dàn ý đặc tả use case, bản nháp sơ đồ Use Case (theo Track DA) | Bản nháp BT1 (đã loại bỏ) | Không dùng nội dung bản nháp trong bài nộp |
-| **Claude (Anthropic)** | Rà soát lỗi bản nháp BT1 (sai «include»/«extend», truy vết FR → User Story sai, MoSCoW lệch, tên bảng nằm trong User Story, quy tắc nghiệp vụ mâu thuẫn với đặc tả); chuyển phân tích sang Track SE; đề xuất 7 User Story kèm tiêu chí Given–When–Then, 8 FR, 5 NFR có ngưỡng số, 7 quy tắc nghiệp vụ, bảng thuật ngữ, bảng truy vết, đặc tả UC1 và UC5 | Mục 1 – SRS, Mục 2 – Use Case; `docs/srs.md` | Đối chiếu đề BT1 và slide Buổi 3–4 (cấu trúc SRS 6 mục, INVEST, MoSCoW, checklist); tự quyết định nội dung cuối cùng |
-| **Claude (Anthropic)** | Vẽ Use Case Diagram (2 actor, 7 use case, 1 quan hệ «extend»), sơ đồ kiến trúc phân lớp, ERD 6 bảng chuẩn 3NF và wireframe 3 màn hình bằng draw.io; viết 4 câu lập luận kiến trúc gắn với NFR1, NFR2, NFR3, NFR5 và SQL DDL skeleton cho MySQL | Mục 2–5; `docs/usecase.drawio`, `docs/architecture.drawio`, `docs/erd.drawio`, `docs/schema.sql`, `docs/wireframe.drawio` | Render từng sơ đồ bằng trình xem diagrams.net và soát chữ, đường nối; phân tích cú pháp DDL theo phương ngữ MySQL (6 bảng, 9 khóa ngoại); đối chiếu từng trường wireframe với cột ERD và bảng thuật ngữ |
+| **Claude (Anthropic)** | Rà soát lỗi bản nháp BT1 (sai «include»/«extend», truy vết FR → User Story sai, MoSCoW lệch, tên bảng nằm trong User Story, quy tắc nghiệp vụ mâu thuẫn với đặc tả); chuyển phân tích sang Track SE; đề xuất 7 User Story dạng bảng, mỗi story có tiêu chí Given–When–Then, 8 FR, 5 NFR có ngưỡng số, 8 quy tắc nghiệp vụ (theo Bảng 9.1 của case study), bảng thuật ngữ, bảng truy vết, đặc tả UC1 và UC5 | Mục 1 – SRS, Mục 2 – Use Case; `docs/srs.md` | Đối chiếu đề BT1 và slide Buổi 3–4 (cấu trúc SRS 6 mục, INVEST, MoSCoW, checklist); tự quyết định nội dung cuối cùng |
+| **Claude (Anthropic)** | Vẽ Use Case Diagram (2 actor, 7 use case, 1 quan hệ «extend»), sơ đồ kiến trúc phân lớp, ERD 6 bảng chuẩn 3NF và wireframe 3 màn hình bằng draw.io; viết 4 câu lập luận kiến trúc gắn với NFR1, NFR2, NFR3, NFR5 và SQL DDL skeleton cho MySQL; đối chiếu mô hình dữ liệu với từ điển dữ liệu (mục 8) và quy tắc QT-01, QT-02, QT-13, QT-14, QT-15 của case study Smart CRM | Mục 2–5; `docs/usecase.drawio`, `docs/architecture.drawio`, `docs/erd.drawio`, `docs/schema.sql`, `docs/wireframe.drawio` | Render từng sơ đồ bằng trình xem diagrams.net và soát chữ, đường nối; phân tích cú pháp DDL theo phương ngữ MySQL (6 bảng, 9 khóa ngoại); đối chiếu từng trường wireframe với cột ERD và bảng thuật ngữ |
 | **Claude (Anthropic)** | Soạn API contract theo mẫu Track SE (11 endpoint, đặc tả chi tiết 6 endpoint cho 3 story MUST, mã HTTP, bảng validation); gộp báo cáo thành file PDF | `docs/api-contract.md`; `BT1_2374802010384_LeTanPhong.pdf` | Kiểm tra mỗi endpoint truy vết về một User Story, mã lỗi khớp bảng thuật ngữ; xem lại từng trang PDF |
 | *--- không dùng ---* | *Các phần tự thực hiện* | Chọn luồng L7, tạo repo GitHub, quyết định nội dung cuối cùng, nộp bài trên E-learning | Tự thực hiện |
 
